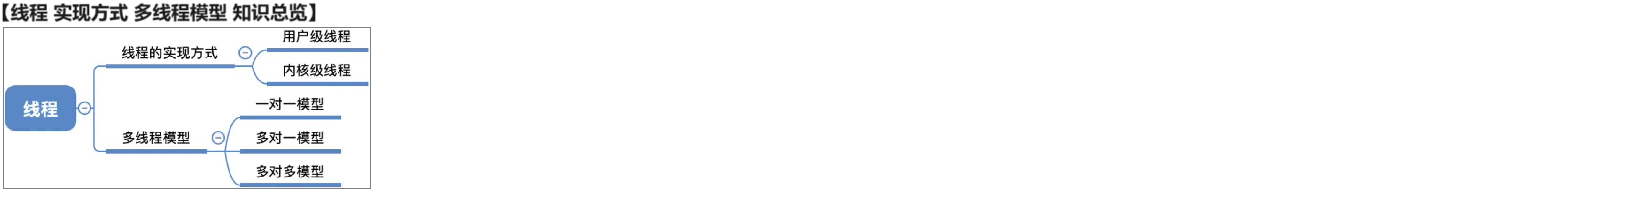
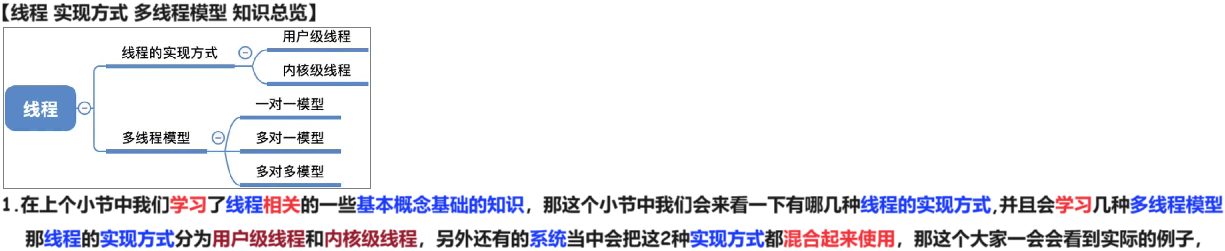
240512

Changed region(s): [[0.0, 0.0, 1.0, 1.0]]

diff --git a/01 初试/01 OS/02 24 25 王道/01 基础/02 进程 线程/01 进程 线程/06 线程 实现方式 多线程模型 240512/02 Doc.md b/01 初试/01 OS/02 24 25 王道/01 基础/02 进程 线程/01 进程 线程/06 线程 实现方式 多线程模型 240512/02 Doc.md
@@ -4,3 +4,14 @@
 
 # 01 线程 实现方式 多线程模型 知识总览
 
+<img src="https://cvp.oss-cn-shanghai.aliyuncs.com/picgo/202405121446916.png" alt="image-20240512144609827" style="zoom:50%;" />
+
+
+
+# 02 线程 实现方式 用户级线程
+
+<img src="https://cvp.oss-cn-shanghai.aliyuncs.com/picgo/202405121927598.png" alt="image-20240512192730184" style="zoom:50%;" />
+
+
+
+# 03 线程 实现方式 内核级线程
